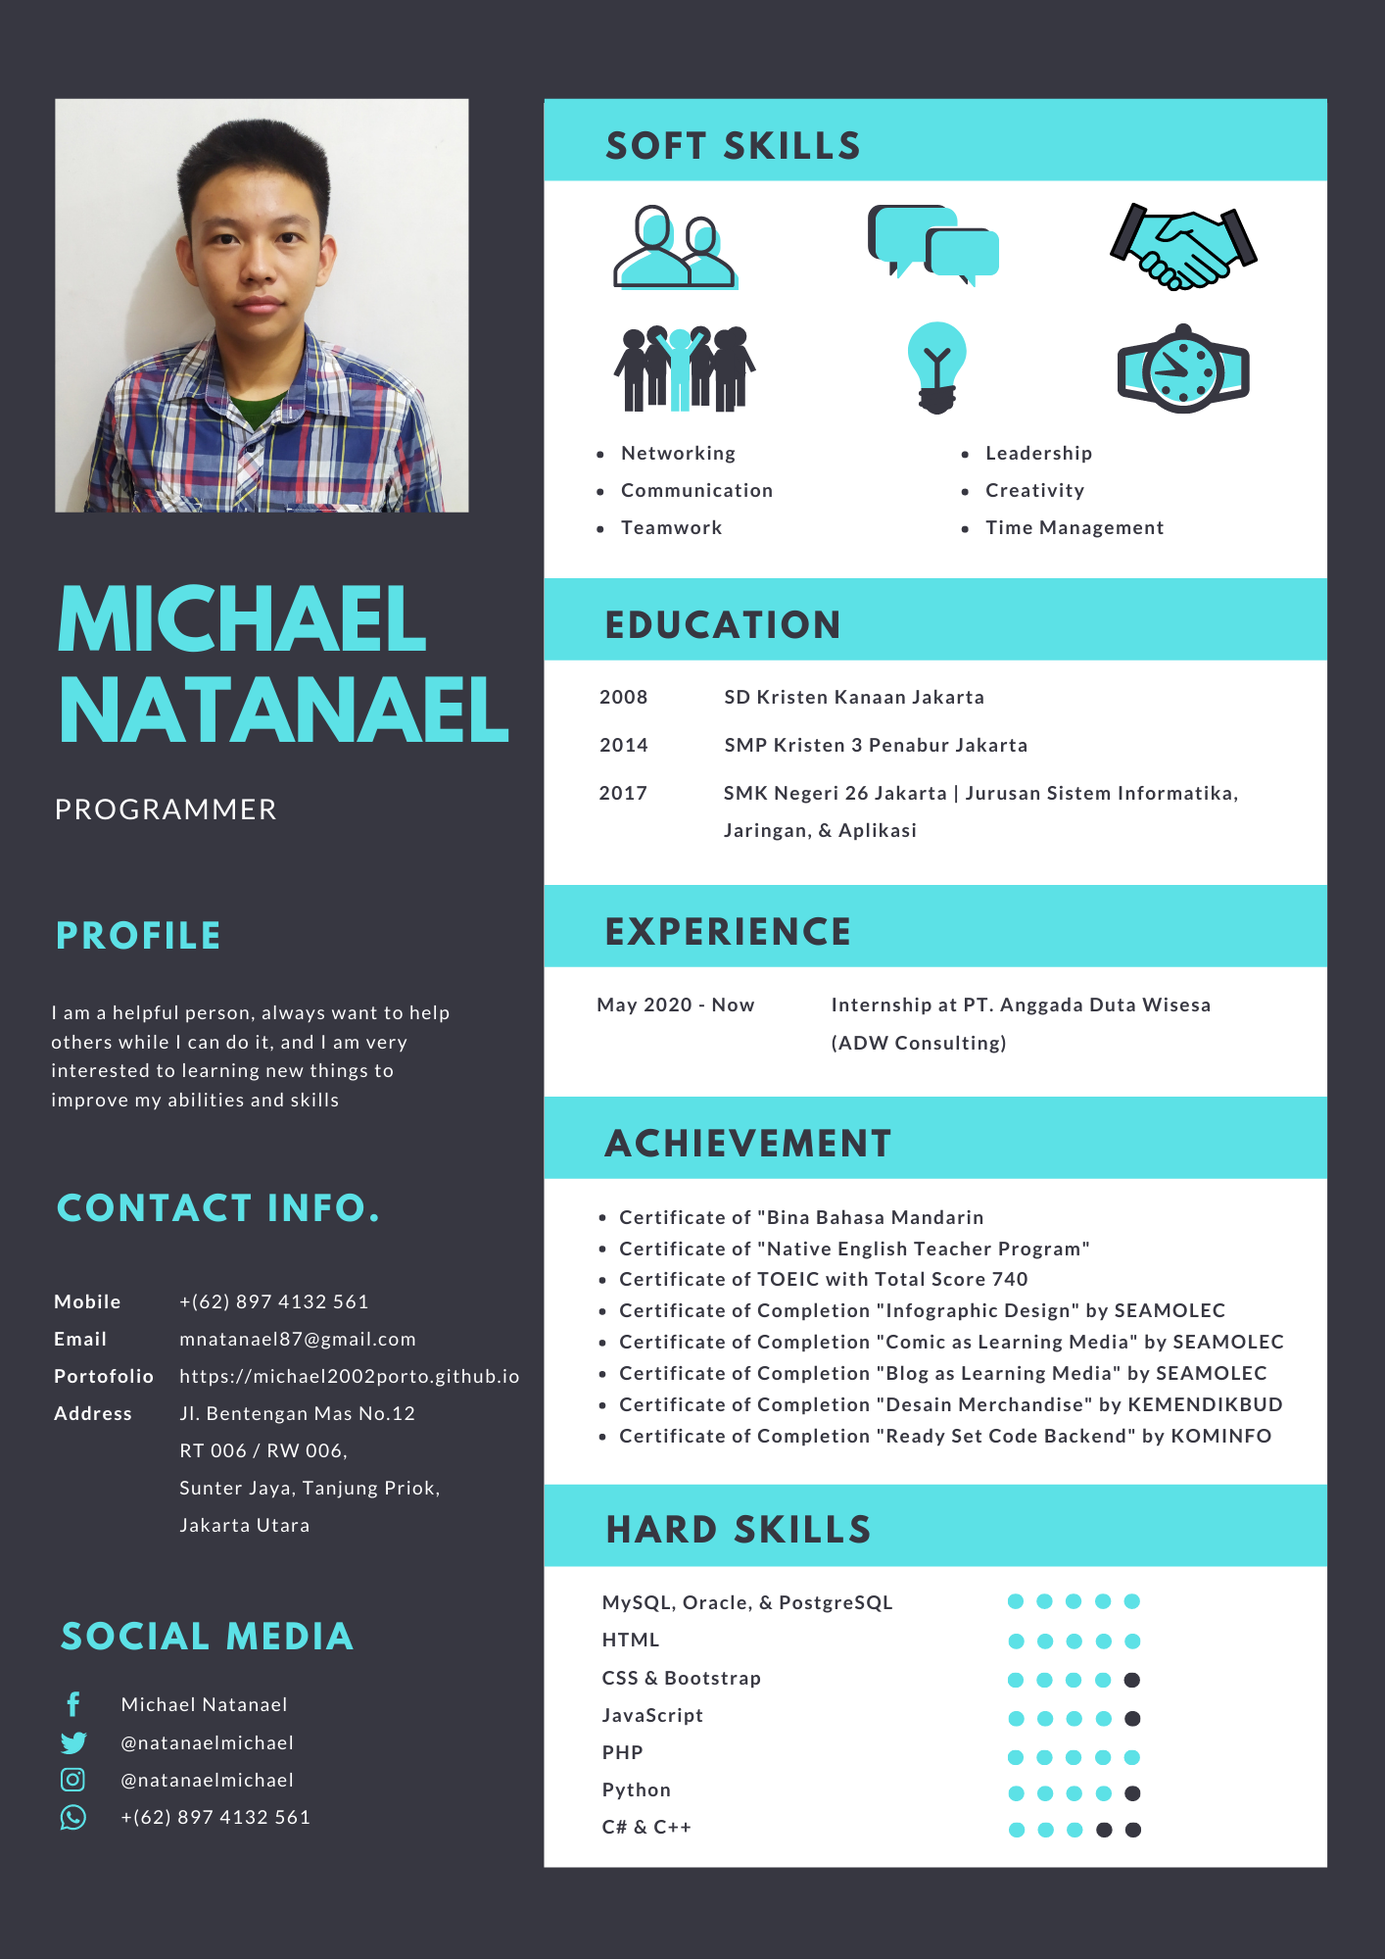
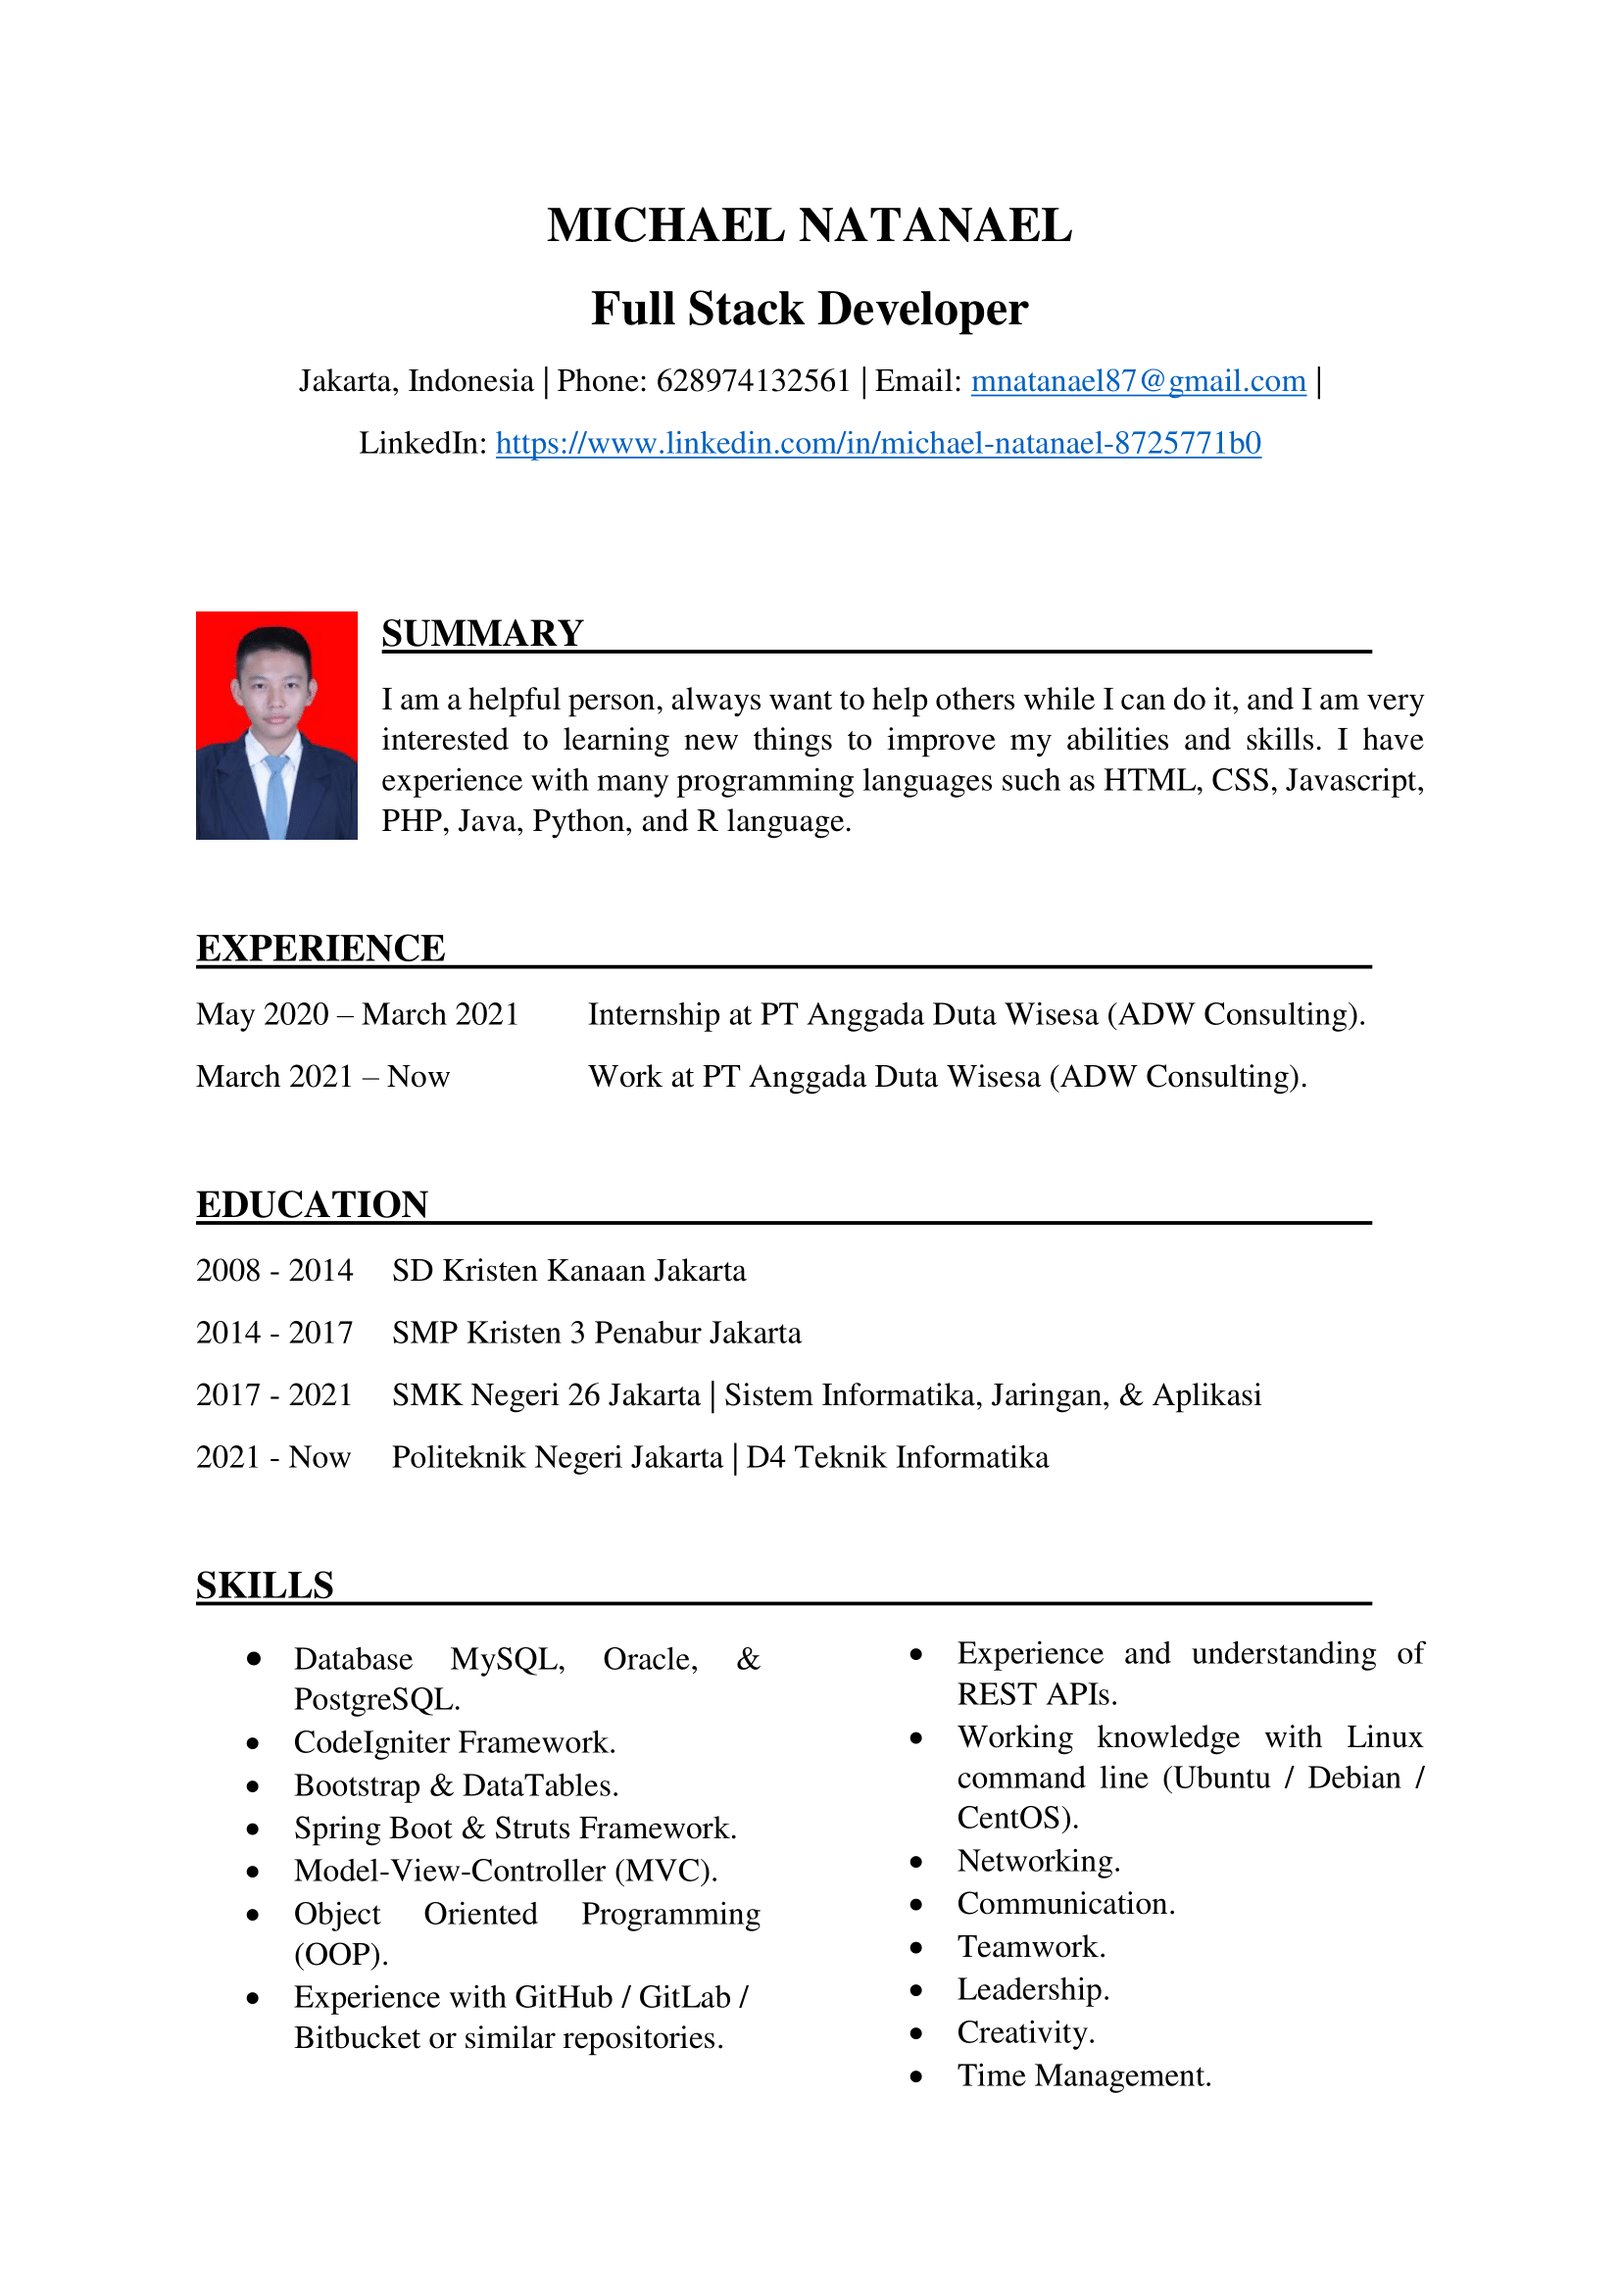
Update CV & certificates

diff --git a/certificate.html b/certificate.html
@@ -91,7 +91,67 @@
 			<h4>TOEIC</h4>
 		</div>
   </div>
-  
+
+  <div class="row row-padding text-center">
+		<div class="col-md-6 tech-margin">
+			<a href="">
+				<iframe height="390" src="https://drive.google.com/file/d/1jeptO_ct87NyExInFVrhFV1aD42CinoI/preview" width="550"></iframe>
+			</a>
+			<h4>Kominfo - Ready Set Code Backend</h4>
+		</div>
+		<div class="col-md-6 tech-margin">
+			<a href="">
+				<iframe height="390" src="https://drive.google.com/file/d/1oKEFJ0h6kkwVLON1ghvp2mGz3tWAq0UM/preview" width="550"></iframe>
+			</a>
+			<h4>Google Gapura Digital - Perluas Kehadiran Online Dengan Strategi Bisnis Yang Tepat</h4>
+		</div>
+  </div>
+
+  <div class="row row-padding text-center">
+		<div class="col-md-6 tech-margin">
+			<a href="">
+				<iframe height="390" src="https://drive.google.com/file/d/1v4IN64wMGImvPjGOEUVf6JBCyobfhg4V/preview" width="550"></iframe>
+			</a>
+			<h4>Digitalent Kominfo - Data Scientist</h4>
+		</div>
+		<div class="col-md-6 tech-margin">
+			<a href="">
+				<iframe height="390" src="https://drive.google.com/file/d/1a0kEle-sW2jRRxdwcMsXiclS1VlNV9v6/preview" width="550"></iframe>
+			</a>
+			<h4>Digitalent Kominfo - Junior Web Developer</h4>
+		</div>
+  </div>
+
+  <div class="row row-padding text-center">
+		<div class="col-md-6 tech-margin">
+			<a href="">
+				<iframe height="390" src="https://drive.google.com/file/d/1Td3DZ_fSzdNGzG40RisJZSSVNU0zdAcd/preview" width="550"></iframe>
+			</a>
+			<h4>Digitalent Kominfo - Bahasa Inggris</h4>
+		</div>
+		<div class="col-md-6 tech-margin">
+			<a href="">
+				<iframe height="390" src="https://drive.google.com/file/d/1ocr-K8qiIPSKLkD65KGQREj_kMtkNYGK/preview" width="550"></iframe>
+			</a>
+			<h4>Digitalent Kominfo - Personal Branding</h4>
+		</div>
+  </div>
+
+  <div class="row row-padding text-center">
+		<div class="col-md-6 tech-margin">
+			<a href="">
+				<iframe height="390" src="https://drive.google.com/file/d/1sfQT4Fb3XRiaFbpB59NuOkH4lwFqeySD/preview" width="550"></iframe>
+			</a>
+			<h4>Progate - JavaScript Course</h4>
+		</div>
+		<div class="col-md-6 tech-margin">
+			<a href="">
+				<iframe height="390" src="https://drive.google.com/file/d/1Ubf5HvCkOXl96_W_ujFfQqXWD54BSv5y/preview" width="550"></iframe>
+			</a>
+			<h4>Progate - Python Course</h4>
+		</div>
+  </div>
+
   <div class="row row-padding text-center">
 		<div class="col-md-6 tech-margin">
 			<a href="">
@@ -140,39 +200,24 @@
   <div class="row row-padding text-center">
 		<div class="col-md-6 tech-margin">
 			<a href="">
-				<iframe height="390" src="https://drive.google.com/file/d/1jeptO_ct87NyExInFVrhFV1aD42CinoI/preview" width="550"></iframe>
-			</a>
-			<h4>Kominfo - Ready Set Code Backend</h4>
-		</div>
-		<div class="col-md-6 tech-margin">
-			<a href="">
-				<iframe height="390" src="https://drive.google.com/file/d/1oKEFJ0h6kkwVLON1ghvp2mGz3tWAq0UM/preview" width="550"></iframe>
-			</a>
-			<h4>Google Gapura Digital - Perluas Kehadiran Online Dengan Strategi Bisnis Yang Tepat</h4>
-		</div>
-  </div>
-
-  <div class="row row-padding text-center">
-		<div class="col-md-6 tech-margin">
-			<a href="">
-				<iframe height="390" src="https://drive.google.com/file/d/1sfQT4Fb3XRiaFbpB59NuOkH4lwFqeySD/preview" width="550"></iframe>
-			</a>
-			<h4>Progate - JavaScript Course</h4>
-		</div>
-		<div class="col-md-6 tech-margin">
-			<a href="">
-				<iframe height="390" src="https://drive.google.com/file/d/1Ubf5HvCkOXl96_W_ujFfQqXWD54BSv5y/preview" width="550"></iframe>
-			</a>
-			<h4>Progate - Python Course</h4>
-		</div>
-  </div>
-
-  <div class="row row-padding text-center">
-		<div class="col-md-6 tech-margin">
-			<a href="">
 				<iframe height="390" src="https://drive.google.com/file/d/1hoGebMllfB0b1hm3kWU6azOSnUCwuhqj/preview" width="550"></iframe>
 			</a>
 			<h4>Kamp Kreatif SMK Indonesia - Kecerdasan Buatan (AI)</h4>
+		</div>
+		<div class="col-md-6 tech-margin">
+			<a href="">
+				<iframe height="390" src="https://drive.google.com/file/d/1E5r8E8zp3KrPQGr2cwkCZOg08BZuPcKn/preview" width="550"></iframe>
+			</a>
+			<h4>Introduction To Office 365</h4>
+		</div>
+  </div>
+
+  <div class="row row-padding text-center">
+		<div class="col-md-6 tech-margin">
+			<a href="">
+				<iframe height="390" src="https://drive.google.com/file/d/1xlOtExnW3i_AxYEVLOrMV2-4BG7J6obq/preview" width="550"></iframe>
+			</a>
+			<h4>Junior Web Programming</h4>
 		</div>
 		<div class="col-md-6 tech-margin">
 			<a href="">

diff --git a/index.html b/index.html
@@ -122,9 +122,9 @@
 					<h1>
 						<b>Michael Natanael</b> 
 					</h1>
-					<h2>SMKN 26 Jakarta (Sistem Informatika Jaringan & Aplikasi)</h2>
+					<h2>Politeknik Negeri Jakarta (D4 Teknik Informatika)</h2>
 					<h4>
-						Student at School of Application Network Information System, SMKN 26 Jakarta, in third year of study, I have interest in Programming and Graphic Design
+						A first semester student of Informatics Engineering study program, I have interest in Programming and Graphic Design
 						<!--Mahasiswa semester 5 di bidang Teknik Informatika peminatan Multimedia yang memiliki ketertarikan dalam dunia <i>Editing & Graphic Design</i>-->
 					</h4>
 
